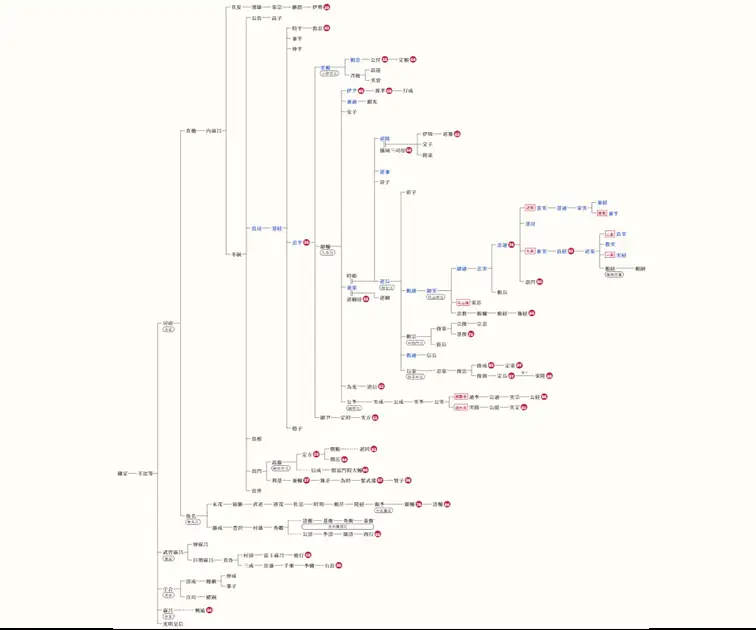
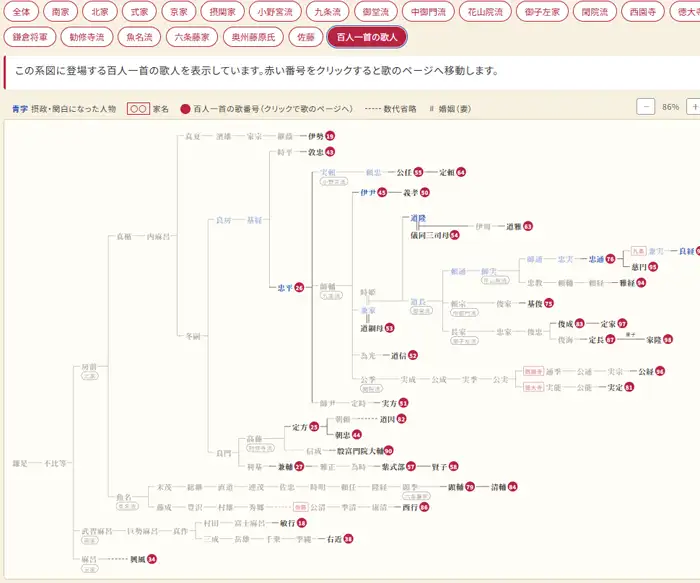
サムネイル変更

diff --git a/introduction.html b/introduction.html
@@ -297,7 +297,17 @@
               </div>
             </a>
           </div>
-          
+
+          <div class="card">
+            <a href="tenno-keizu.html">
+              <img src="../img/thumb_tennou_keizu.webp" alt="天皇の略系図のサムネイル" width="700" height="583">
+              <div class="card-content">
+                <h2>天皇の略系図</h2>
+                <p>百人一首は天智天皇・持統天皇の親子で始まり、後鳥羽院・順徳院の親子で終わります。天智天皇から順徳院までの歴代天皇と、源氏・平氏・在原氏など皇族から臣下となった人々の系図です。在原業平や源融、清少納言など、天皇の子孫にあたる歌人がどの天皇につながるのかを、系統ごとに切り替えてたどることができます。</p>
+              </div>
+            </a>
+          </div>
+
           <div class="card">
             <a href="kanshoku_column.html">
               <img src="../img/thumb_name.webp" alt="歌人名の由来のサムネイル">
